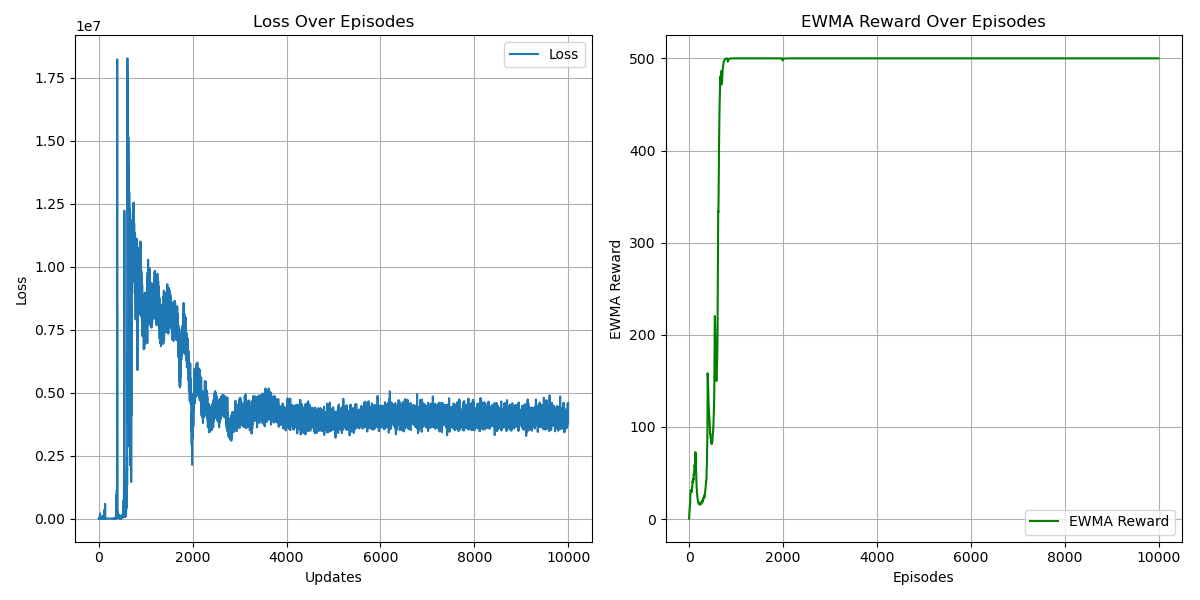
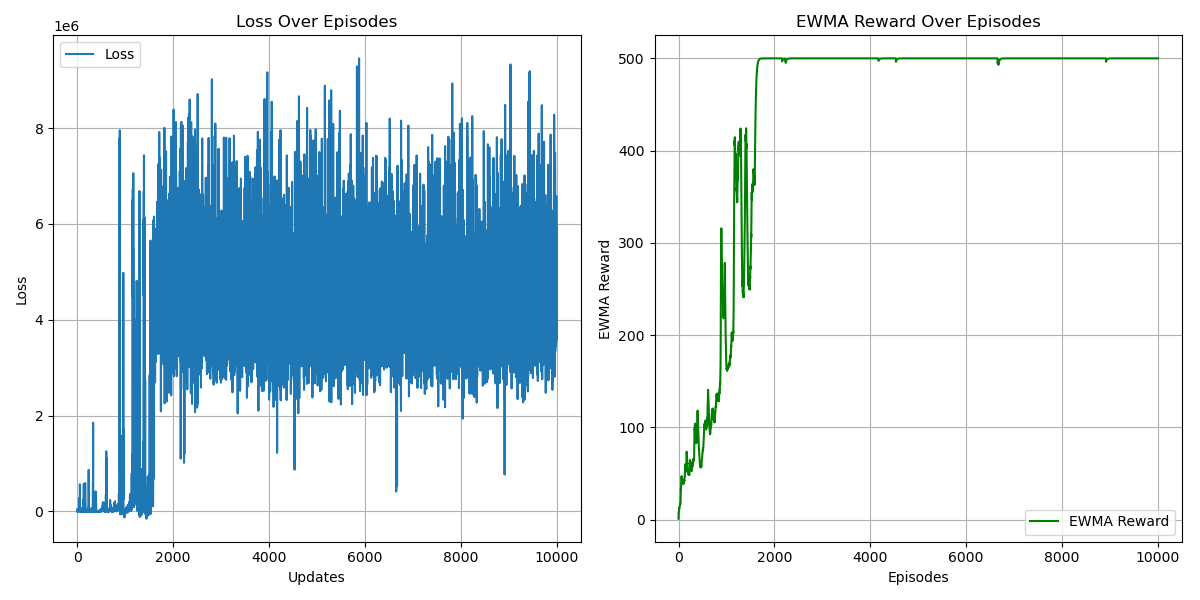
fix GAE with truncated state

diff --git a/REINFORCE/reinforce-gae.py b/REINFORCE/reinforce-gae.py
@@ -63,10 +63,13 @@ class GAE:
         self.lambda_ = lambda_
         self.num_steps = num_steps          # set num_steps = None to adapt full batch
 
-    def __call__(self, rewards, values, done=False):
+    def __call__(self, rewards, values, done=True, next_value=None):
         advantages = []
         advantage = 0
-        next_value = 0
+        if done ==True:
+            next_value = 0
+        else:
+            next_value = next_value
         for r,v in zip(reversed(rewards),reversed(values)):
             td_error = r + next_value*self.gamma - v
             advantage = td_error + advantage*self.gamma*self.lambda_
@@ -90,7 +93,9 @@ class REINFORCEAGENT(object):
         
         # action & reward memory per episode
         self.saved_actions = []
+        self.dones = []
         self.rewards = []
+        self.next_states = []
 
     def select_action(self, state):
         # cannot disable gradient
@@ -124,7 +129,13 @@ class REINFORCEAGENT(object):
         log_probs = to_device(torch.stack(log_probs, dim=0)) # concat to linear
         values = to_device(torch.stack(values, dim=0).squeeze(-1)) # concat to linear; squeeze(-1), incorrect results due to broadcast
 
-        advantages = GAE(self.gamma, self.gae_lambda,None)(self.rewards,values)
+        if self.dones[-1] == True:
+            advantages = GAE(self.gamma, self.gae_lambda,None)(self.rewards,values,True,None)
+        else:
+            fin_next_state = torch.tensor([self.next_states[-1]], device=deviceGPU)
+            _, fin_next_state_value = self.actorCritic(fin_next_state)
+            advantages = GAE(self.gamma, self.gae_lambda,None)(self.rewards,values,False,fin_next_state_value)
+        
         advantages = advantages.detach()
 
 
@@ -140,7 +151,9 @@ class REINFORCEAGENT(object):
 
     def clear_memory(self):
         # reset rewards and action buffer
+        del self.dones[:]
         del self.rewards[:]
+        del self.next_states[:]
         del self.saved_actions[:]
 
 
@@ -183,6 +196,8 @@ def train(lr=0.01):
 
             done = terminate
             reinforceAgent.rewards.append(reward)
+            reinforceAgent.dones.append(terminate)
+            reinforceAgent.next_states.append(next_state)
             ep_reward += reward
             if done or truncated:
                 break

diff --git a/REINFORCE/README.md b/REINFORCE/README.md
@@ -4,6 +4,8 @@
   * https://link.springer.com/article/10.1007/BF00992696
   * https://papers.nips.cc/paper_files/paper/1999/hash/464d828b85b0bed98e80ade0a5c43b0f-Abstract.html
   * http://incompleteideas.net/book/the-book-2nd.html
+* Actor-Critic
+  * https://proceedings.neurips.cc/paper/1999/hash/6449f44a102fde848669bdd9eb6b76fa-Abstract.html
 * GAE: https://arxiv.org/abs/1506.02438
 ## Main Algorithm
 * Actor-Critic

diff --git a/A2C/README.md b/A2C/README.md
@@ -2,6 +2,8 @@
 ## Paper
 * Advantage Actor-Critic (Synchronous version of Asynchronous Advantage Actor-Critic)
   * https://arxiv.org/abs/1602.01783
+* Actor-Critic
+  * https://proceedings.neurips.cc/paper/1999/hash/6449f44a102fde848669bdd9eb6b76fa-Abstract.html
 ## Main Algorithm
 * Similar to REINFORCE with Baseline
 * Actor-Critic
